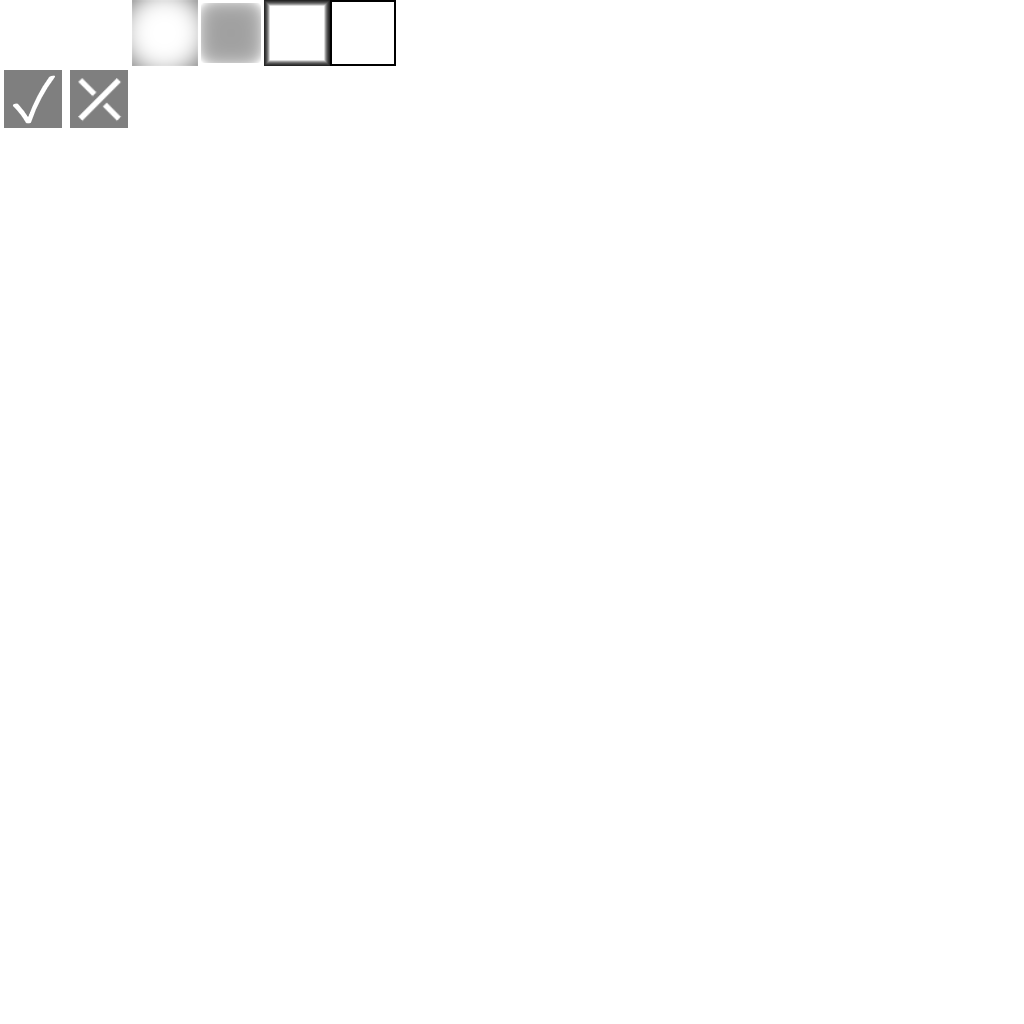
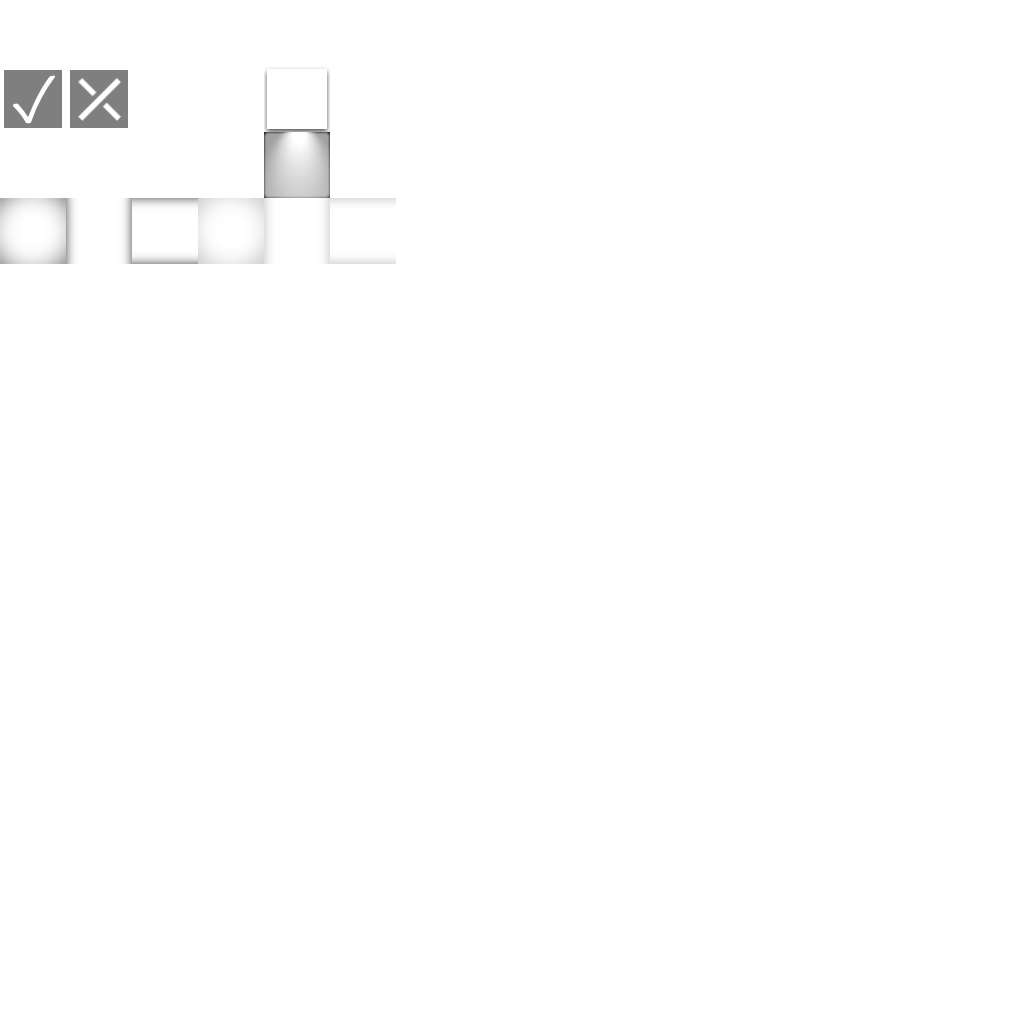
some visual polish

diff --git a/ClientProject/ClientSource/Libs/Logger/Logger.Wrap.cs b/ClientProject/ClientSource/Libs/Logger/Logger.Wrap.cs
@@ -9,6 +9,9 @@ using HarmonyLib;
 using Microsoft.Xna.Framework;
 using System.Text;
 using System.Runtime.CompilerServices;
+using System.Text.Json;
+using System.Text.Encodings.Web;
+using System.Text.Unicode;
 
 #if JSON_AVAILABLE
 using System.Text.Encodings.Web;
@@ -42,6 +45,20 @@ namespace CUILibs
         }
       }
 
+      public static string Dictionary<TKey, TValue>(IDictionary<TKey, TValue> dict)
+      {
+        StringBuilder sb = new StringBuilder();
+
+        sb.Append("{\n");
+        foreach (var entry in dict)
+        {
+          sb.Append($"    {entry.Key}: [{WrapInColor(entry.Value, "white")}],\n");
+        }
+        sb.Append("} ");
+
+        return sb.ToString();
+      }
+
       public static string IDictionary(System.Collections.IDictionary dict)
       {
         StringBuilder sb = new StringBuilder();
@@ -56,52 +73,7 @@ namespace CUILibs
         return sb.ToString();
       }
 
-      //BRUH borked
-      // public static string Object(object target)
-      // {
-      //   StringBuilder sb = new StringBuilder();
 
-      //   bool isPrimitive(PropertyInfo pi)
-      //     => pi.PropertyType.IsPrimitive || pi.PropertyType == typeof(string);
-
-      //   void ToStringRec(string offset, object o)
-      //   {
-      //     Logger.Default.Log($"Wrapping [{o}]");
-      //     if (o is null)
-      //     {
-      //       sb.Append("[null]");
-      //       return;
-      //     }
-
-      //     PropertyInfo[] props = o.GetType().GetProperties(BindingFlags.Instance | BindingFlags.Public);
-
-      //     foreach (PropertyInfo pi in props)
-      //     {
-      //       if (!isPrimitive(pi))
-      //       {
-      //         object value = pi.GetValue(o);
-
-      //         sb.Append($"{offset}{pi.PropertyType.Name}  {pi.Name}:\n");
-      //         ToStringRec($"{offset}       |", value);
-      //         sb.Append($"{offset}        \n");
-      //       }
-      //     }
-
-      //     foreach (PropertyInfo pi in props)
-      //     {
-      //       if (isPrimitive(pi))
-      //       {
-      //         sb.Append($"{offset}{pi.PropertyType.Name}  {pi.Name}: [{WrapInColor(pi.GetValue(o), "white")}]\n");
-      //       }
-      //     }
-      //   }
-
-      //   ToStringRec("", target);
-      //   sb.Remove(sb.Length - 1, 1);
-      //   return sb.ToString();
-      // }
-
-#if JSON_AVAILABLE
       public static string AsJson(object target)
       {
         return JsonSerializer.Serialize(target, new JsonSerializerOptions
@@ -110,7 +82,7 @@ namespace CUILibs
           Encoder = JavaScriptEncoder.Create(UnicodeRanges.All)
         });
       }
-#endif
+
       /// <summary>
       /// Just direct props of an object
       /// </summary>

diff --git a/ClientProject/InMemory/CUITest/Snapshots/Tests/Random/MultiPalette.cs b/ClientProject/InMemory/CUITest/Snapshots/Tests/Random/MultiPalette.cs
@@ -1,0 +1,67 @@
+using System;
+using System.Collections.Generic;
+using System.Linq;
+using System.Reflection;
+using System.Diagnostics;
+using System.Runtime.CompilerServices;
+using Barotrauma;
+using CUILibs;
+using CrabUI;
+using Microsoft.Xna.Framework;
+
+namespace CrabUIUser
+{
+  public partial class SnapshotTests
+  {
+    public static partial class Random
+    {
+      public static CUIComponent CreatePanel(CUIPalette palette)
+      {
+        var panel = new CUIDefault.HorizontalPanel()
+        {
+          Absolute = new CUINullRect(h: 100),
+        };
+
+        CUITextInput input = new CUITextInput()
+        {
+          Absolute = new CUINullRect(w: 100, h: 30),
+          Anchor = CUIAnchor.LeftCenter,
+        };
+
+        panel["text"] = new CUITextBlock("Change Palette color: ");
+        panel["wrapper"] = new CUIComponent() { FitContent = new CUIBool2(true, false) };
+        panel["wrapper"]["input"] = input;
+        panel["button"] = new CUIButton("Update")
+        {
+          OnMouseDown = (c, e) =>
+          {
+            Color color = CUICore.Parser.Parse<Color>(input.Text);
+
+            palette.Swap(CUIPalette.FromColor(color));
+            CUI.Logger.Log(palette);
+          }
+        };
+
+
+        panel.DeepPalette = palette;
+
+        return panel;
+      }
+
+      public static CUIComponent MultiPalette()
+      {
+        CUIFrame frame = new CUIDefault.Frame("MultiPalette")
+        {
+          Absolute = new CUINullRect(w: 400, h: 600),
+        };
+
+        frame["layout"]["panel1"] = CreatePanel(CUICore.Palettes.Primary);
+        frame["layout"]["panel2"] = CreatePanel(CUICore.Palettes.Secondary);
+        frame["layout"]["panel3"] = CreatePanel(CUICore.Palettes.Tertiary);
+        frame["layout"]["panel4"] = CreatePanel(CUICore.Palettes.Quaternary);
+
+        return frame;
+      }
+    }
+  }
+}

diff --git a/ClientProject/ClientSource/CUI/Infrastructure/Graphics Abstractions/CUISprite/CUIDefaultSprite.cs b/ClientProject/ClientSource/CUI/Infrastructure/Graphics Abstractions/CUISprite/CUIDefaultSprite.cs
@@ -27,11 +27,22 @@ namespace CrabUI
 
     public static CUISprite Cross => AtPos(0, 0);
     public static CUISprite Angle => AtPos(1, 0);
-    public static CUISprite Vignette => AtPos(2, 0);
-    public static CUISprite InnerShadow => AtPos(3, 0);
-    public static CUISprite Convex => AtPos(4, 0);
-    public static CUISprite Outlined => AtPos(4, 0);
+
     public static CUISprite HorizontalGradient => AtPos(2, 1);
     public static CUISprite VerticalGradient => AtPos(3, 1);
+    public static CUISprite BoxWithAShadow => AtPos(4, 1);
+
+    public static CUISprite BluredEdges => AtPos(0, 2);
+    public static CUISprite BluredEdgesHorizontal => AtPos(1, 2);
+    public static CUISprite BluredEdgesVertical => AtPos(2, 2);
+    public static CUISprite Window => AtPos(3, 2);
+    public static CUISprite BoxWithALamp => AtPos(4, 2);
+
+    public static CUISprite Vignette => AtPos(0, 3);
+    public static CUISprite DimmedHorizontal => AtPos(1, 3);
+    public static CUISprite DimmedVertical => AtPos(2, 3);
+    public static CUISprite VignetteLight => AtPos(3, 3);
+    public static CUISprite DimmedHorizontalLight => AtPos(4, 3);
+    public static CUISprite DimmedVerticalLight => AtPos(5, 3);
   }
 }

diff --git a/ClientProject/ClientSource/CUI/Core/Components/Default/Panel.cs b/ClientProject/ClientSource/CUI/Core/Components/Default/Panel.cs
@@ -1,0 +1,45 @@
+using System;
+using System.Collections.Generic;
+using System.Collections.ObjectModel;
+using System.Linq;
+using System.Reflection;
+using System.Diagnostics;
+using Barotrauma;
+using Microsoft.Xna.Framework;
+using Microsoft.Xna.Framework.Graphics;
+using CUICodeGenerator;
+using Barotrauma.Extensions;
+
+namespace CrabUI
+{
+  public static partial class CUIDefault
+  {
+    public class HorizontalPanel : CUIHorizontalList
+    {
+      public static ICUIStyle DefaultStyle { get; } = new CUIDefaultStyle<HorizontalPanel>((c) =>
+      {
+        c.Background.Color = c.Palette["main"].MultOpaque(0.5f);
+      });
+
+      protected override void InitStyle()
+      {
+        base.InitStyle();
+        Background.Sprite = CUIDefaultSprite.DimmedVerticalLight;
+      }
+    }
+
+    public class VerticalPanel : CUIVerticalList
+    {
+      public static ICUIStyle DefaultStyle { get; } = new CUIDefaultStyle<VerticalPanel>((c) =>
+      {
+        c.Background.Color = c.Palette["main"].MultOpaque(0.5f);
+      });
+
+      protected override void InitStyle()
+      {
+        base.InitStyle();
+        Background.Sprite = CUIDefaultSprite.DimmedHorizontalLight;
+      }
+    }
+  }
+}

diff --git a/ClientProject/ClientSource/CUI/Core/Components/CUITextInput/CUITextInput.Visual.cs b/ClientProject/ClientSource/CUI/Core/Components/CUITextInput/CUITextInput.Visual.cs
@@ -51,24 +51,24 @@ namespace CrabUI
 
     private void _UpdateRects()
     {
-      TextBlock.Rect = Rect;
+      TextBlock.Rect = ChildrenRect;
       TextBlock.Text = State.Text;
 
 
-      CaretTexture.Rect = Rect with
+      CaretTexture.Rect = ChildrenRect with
       {
-        Left = Rect.Left + TextMeasurements.CaretLeft - 1,
+        Left = ChildrenRect.Left + TextMeasurements.CaretLeft - 1,
         Width = 2,
-        Top = Rect.Top + Rect.Height * 0.1f,
-        Height = Rect.Height * 0.8f,
+        Top = ChildrenRect.Top + ChildrenRect.Height * 0.1f,
+        Height = ChildrenRect.Height * 0.8f,
       };
 
-      SelectionOverlay.Rect = Rect with
+      SelectionOverlay.Rect = ChildrenRect with
       {
-        Left = Rect.Left + TextMeasurements.SelectionLeft,
+        Left = ChildrenRect.Left + TextMeasurements.SelectionLeft,
         Width = TextMeasurements.SelectionWidth,
-        Top = Rect.Top + Rect.Height * 0.1f,
-        Height = Rect.Height * 0.8f,
+        Top = ChildrenRect.Top + ChildrenRect.Height * 0.1f,
+        Height = ChildrenRect.Height * 0.8f,
       };
     }
 

diff --git a/ClientProject/ClientSource/CUI/Core/Components/CUITextInput/CUITextInput.cs b/ClientProject/ClientSource/CUI/Core/Components/CUITextInput/CUITextInput.cs
@@ -19,11 +19,12 @@ namespace CrabUI
     public static ICUIStyle DefaultStyle { get; } = new CUIDefaultStyle<CUITextInput>((c) =>
     {
       c.FocusedColor = Color.Lerp(c.Palette["back"], c.Palette["main"], 0.8f);
-      c.BluredColor = Color.Lerp(c.Palette["back"], c.Palette["main"], 0.5f);
+      c.BluredColor = Color.Lerp(c.Palette["back"], c.Palette["main"], 0.3f);
       c.SelectionColor = c.Palette["selection"] * 0.4f;
       c.CaretColor = c.Palette["selection"];
       c.InvalidColor = c.Palette["invalid"] * 0.5f;
       c.TextBlock.TextColor = c.Palette["text"];
+      c.UpdateVisualState();//HACK
     });
 
     protected override void InitStyle()
@@ -34,6 +35,8 @@ namespace CrabUI
       ConsumeMouseEvents = true;
       ConsumeFocus = true;
       CullChildren = true;
+      Background.Sprite = CUIDefaultSprite.BoxWithALamp;
+      Padding = new CUISizes(4, 4, 4, 4);
     }
 
 

diff --git a/ClientProject/ClientSource/CUI/Core/Styling/Palette/CUIPalette.cs b/ClientProject/ClientSource/CUI/Core/Styling/Palette/CUIPalette.cs
@@ -2,6 +2,7 @@ using System;
 using System.Collections.Generic;
 using System.Linq;
 using System.Reflection;
+using CUILibs;
 using Microsoft.Xna.Framework;
 
 namespace CrabUI
@@ -11,9 +12,11 @@ namespace CrabUI
   {
     public static CUIPalette FromColor(Color color)
     {
+      float brightness = color.Brightness();
+
       Color front = color;
       Color back = new Color(0, 0, 0);
-      Color text = new Color(255, 255, 255);
+      Color text = Color.Lerp(Color.Black, Color.White, brightness * 1.5f);
       Color controls = new Color(0, 255, 255);
       Color selection = new Color(0, 255, 255);
       Color valid = new Color(0, 255, 0);
@@ -32,5 +35,7 @@ namespace CrabUI
         ["disabled"] = disabled,
       };
     }
+
+    public override string ToString() => $"Palette: {Logger.Wrap.Dictionary(this)}";
   }
 }

diff --git a/ClientProject/ClientSource/CUI/Core/Styling/Palette/CUIPaletteManager.cs b/ClientProject/ClientSource/CUI/Core/Styling/Palette/CUIPaletteManager.cs
@@ -14,10 +14,22 @@ namespace CrabUI
       set => _Primary.Swap(value);
     }
 
-    private CUIPalette _Secondary = CUIPalette.FromColor(new Color(200, 0, 0)); public CUIPalette Secondary
+    private CUIPalette _Secondary = CUIPalette.FromColor(new Color(150, 0, 0)); public CUIPalette Secondary
     {
       get => _Secondary;
       set => _Secondary.Swap(value);
+    }
+
+    private CUIPalette _Tertiary = CUIPalette.FromColor(new Color(100, 0, 32)); public CUIPalette Tertiary
+    {
+      get => _Tertiary;
+      set => _Tertiary.Swap(value);
+    }
+
+    private CUIPalette _Quaternary = CUIPalette.FromColor(new Color(64, 0, 64)); public CUIPalette Quaternary
+    {
+      get => _Quaternary;
+      set => _Quaternary.Swap(value);
     }
   }
 }

diff --git a/ClientProject/ClientSource/CUI/Core/Components/Default/Frame.cs b/ClientProject/ClientSource/CUI/Core/Components/Default/Frame.cs
@@ -32,6 +32,7 @@ namespace CrabUI
         this["layout"]["handle"] = new CUIHorizontalList()
         {
           Absolute = new CUINullRect(h: ResizeHandle.DefaultSize.Y),
+          Background = { Sprite = CUIDefaultSprite.DimmedVertical },
           Style = (c) =>
           {
             c.Background.Color = c.Palette["main"];
@@ -43,6 +44,10 @@ namespace CrabUI
         };
         this["layout"]["handle"]["closebutton"] = new CUICloseButton()
         {
+          Background = {
+            Sprite = CUIDefaultSprite.DimmedVertical,
+            Color = Palette["main"], //HACK
+          },
           CrossRelative = new CUINullRect(w: 1),
         };
       }

diff --git a/ClientProject/ClientSource/CUI/Core/Components/CUIButton.cs b/ClientProject/ClientSource/CUI/Core/Components/CUIButton.cs
@@ -24,6 +24,7 @@ namespace CrabUI
     {
       base.InitStyle();
       Padding = new(4, 2, 4, 2);
+      Background.Sprite = CUIDefaultSprite.VignetteLight;
     }
 
     [CUISerializableProp]
@@ -37,7 +38,7 @@ namespace CrabUI
     {
       set
       {
-        InactiveColor = value.MultOpaque(0.7f);
+        InactiveColor = value.MultOpaque(0.8f);
         MouseOverColor = value.MultOpaque(0.9f);
         MousePressedColor = value;
         DetermineColor();

diff --git a/ClientProject/ClientSource/CUI/Core/Serialization/Parser/CUIParser.ExtraParse.cs b/ClientProject/ClientSource/CUI/Core/Serialization/Parser/CUIParser.ExtraParse.cs
@@ -38,7 +38,7 @@ namespace CrabUI
       return (x, y);
     }
 
-    public static Color ParseColor(string raw) => XMLExtensions.ParseColor(raw);
+    public static Color ParseColor(string raw) => XMLExtensions.ParseColor(raw, false);
     public static Vector2 ParseVector2(string raw)
     {
       if (raw == null || raw == "") return new Vector2(0, 0);

diff --git a/ClientProject/InMemory/CUITest/Snapshots/SnapshotTestRunner.cs b/ClientProject/InMemory/CUITest/Snapshots/SnapshotTestRunner.cs
@@ -17,7 +17,7 @@ namespace CrabUIUser
   {
     public ILogger Logger => CUI.Logger;
 
-    public bool SerializeTestSubject { get; set; } = true;
+    public bool SerializeTestSubject { get; set; } = false;
     // public bool PrintTestSubject { get; set; } = true;
     public SnapshotTestChamber Chamber { get; set; }
 
